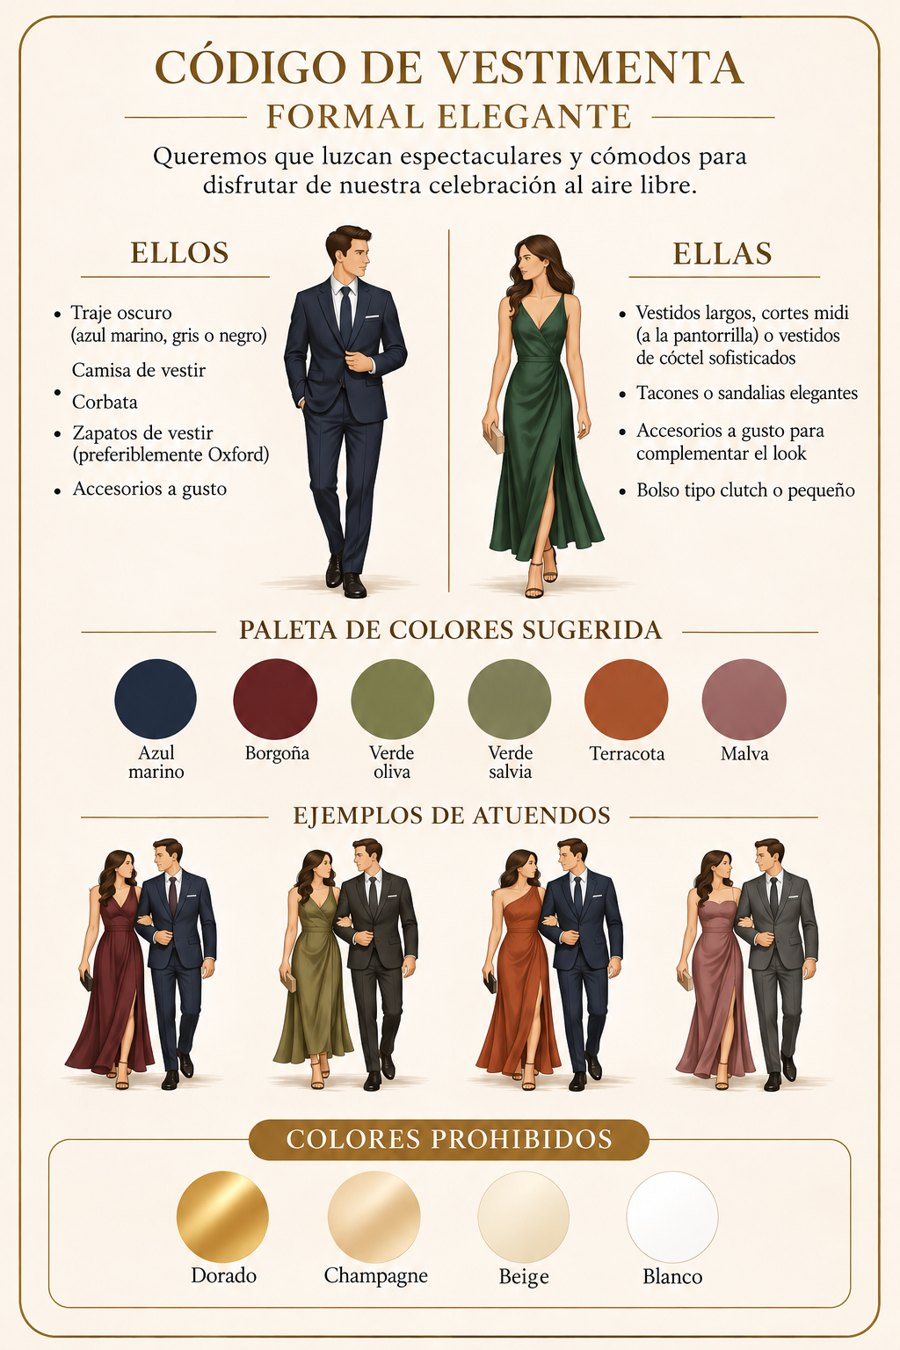
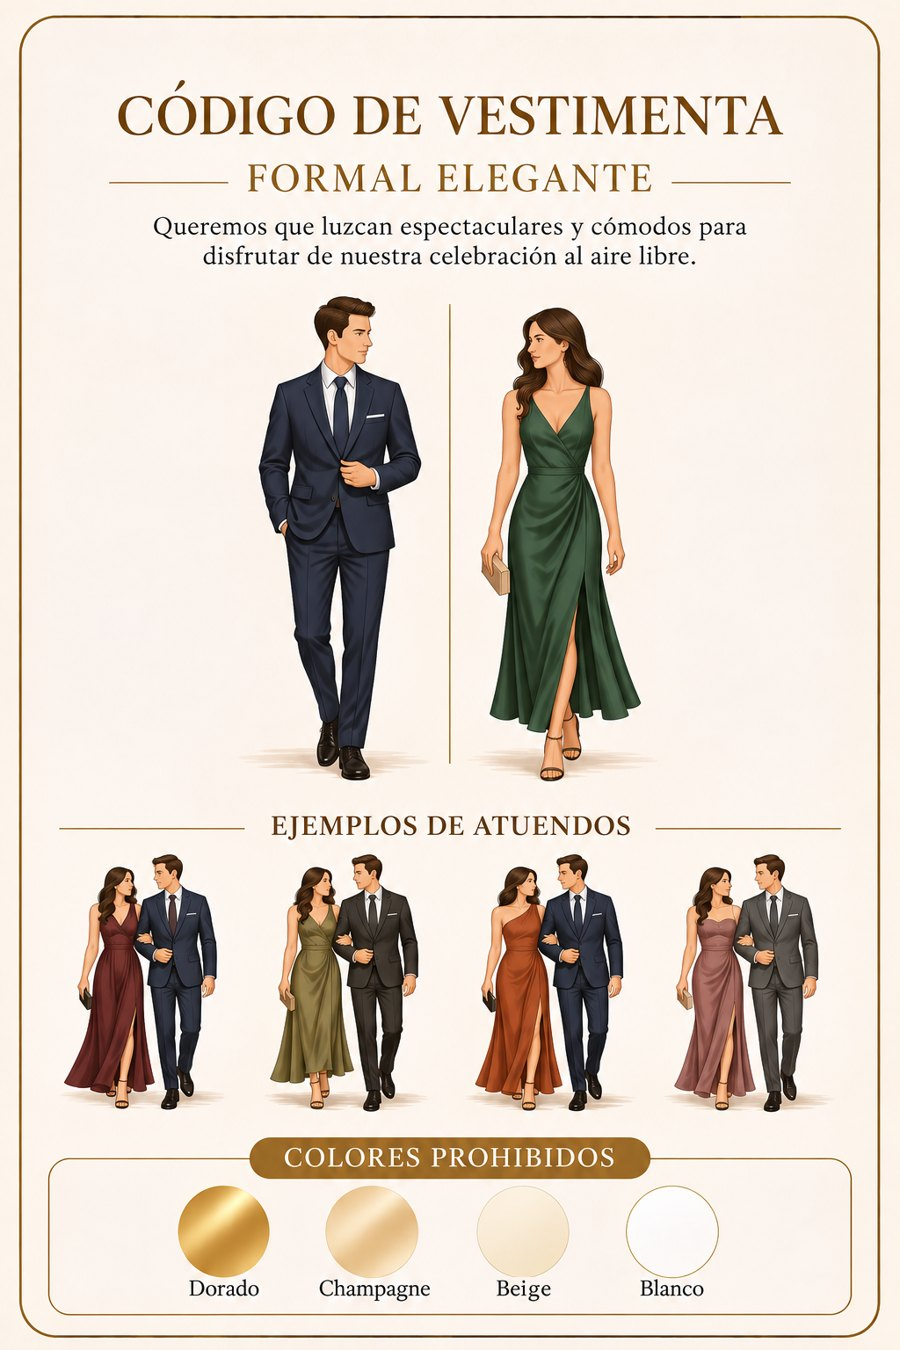
Add files via upload

diff --git a/regalo-modal.js b/regalo-modal.js
@@ -137,8 +137,8 @@
     window.closeGiftModal = closeGiftModal;
     window.showGifts = openGiftModal; // compatibilidad con onclick="showGifts()"
     /* ----- Código de vestimenta (imagen flotante) ----- */
-    const DRESS_IMG = 'codigo-vestimenta.jpg?v=8';
-    const DRESS_IMG_MOVIL = 'codigo-vestimenta-movil.jpg?v=8';
+    const DRESS_IMG = 'codigo-vestimenta.jpg?v=9';
+    const DRESS_IMG_MOVIL = 'codigo-vestimenta-movil.jpg?v=9';
 
     function buildDress() {
         if (document.getElementById('rgDressOverlay')) return;
@@ -147,7 +147,7 @@
               '<div class="rg-sheet rg-dress">' +
                 '<button type="button" class="rg-close" aria-label="Cerrar">&times;</button>' +
                 '<picture><source media="(max-width: 640px)" srcset="' + DRESS_IMG_MOVIL + '">' +
-                '<img src="' + DRESS_IMG + '" alt="Código de vestimenta formal elegante. Colores sugeridos: azul marino, borgoña, verde oliva, verde salvia, terracota y malva. Colores prohibidos: dorado, champagne, beige y blanco." loading="lazy"></picture>' +
+                '<img src="' + DRESS_IMG + '" alt="Código de vestimenta formal elegante. Ejemplos de atuendos: vestidos en borgoña, verde oliva, terracota y malva con trajes oscuros. Colores prohibidos: dorado, champagne, beige y blanco." loading="lazy"></picture>' +
               '</div>' +
             '</div>');
         const o = document.getElementById('rgDressOverlay');

diff --git a/index.html b/index.html
@@ -725,6 +725,6 @@
         })();
         </script>
         <script src="JAVAB.js?v=29" defer></script>
-        <script src="regalo-modal.js?v=10" defer></script>
+        <script src="regalo-modal.js?v=11" defer></script>
 </body>
 </html>
